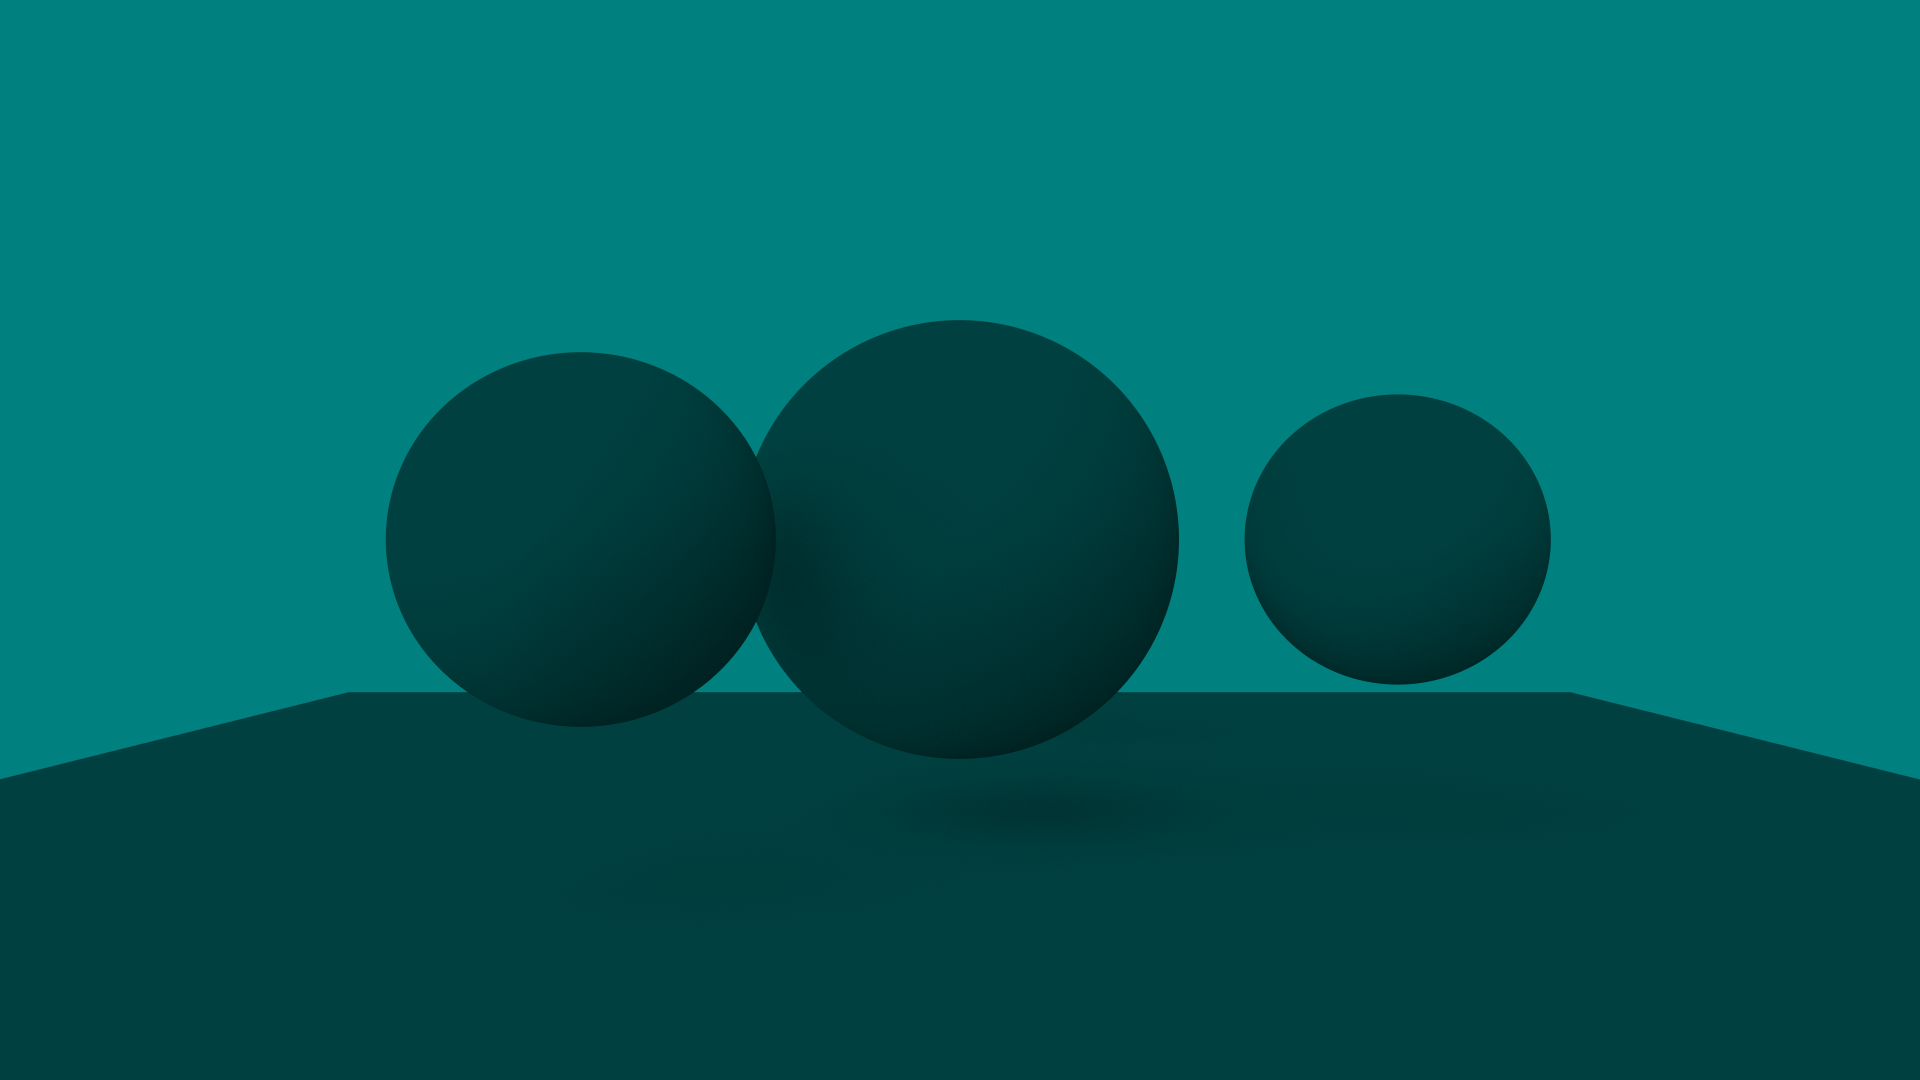
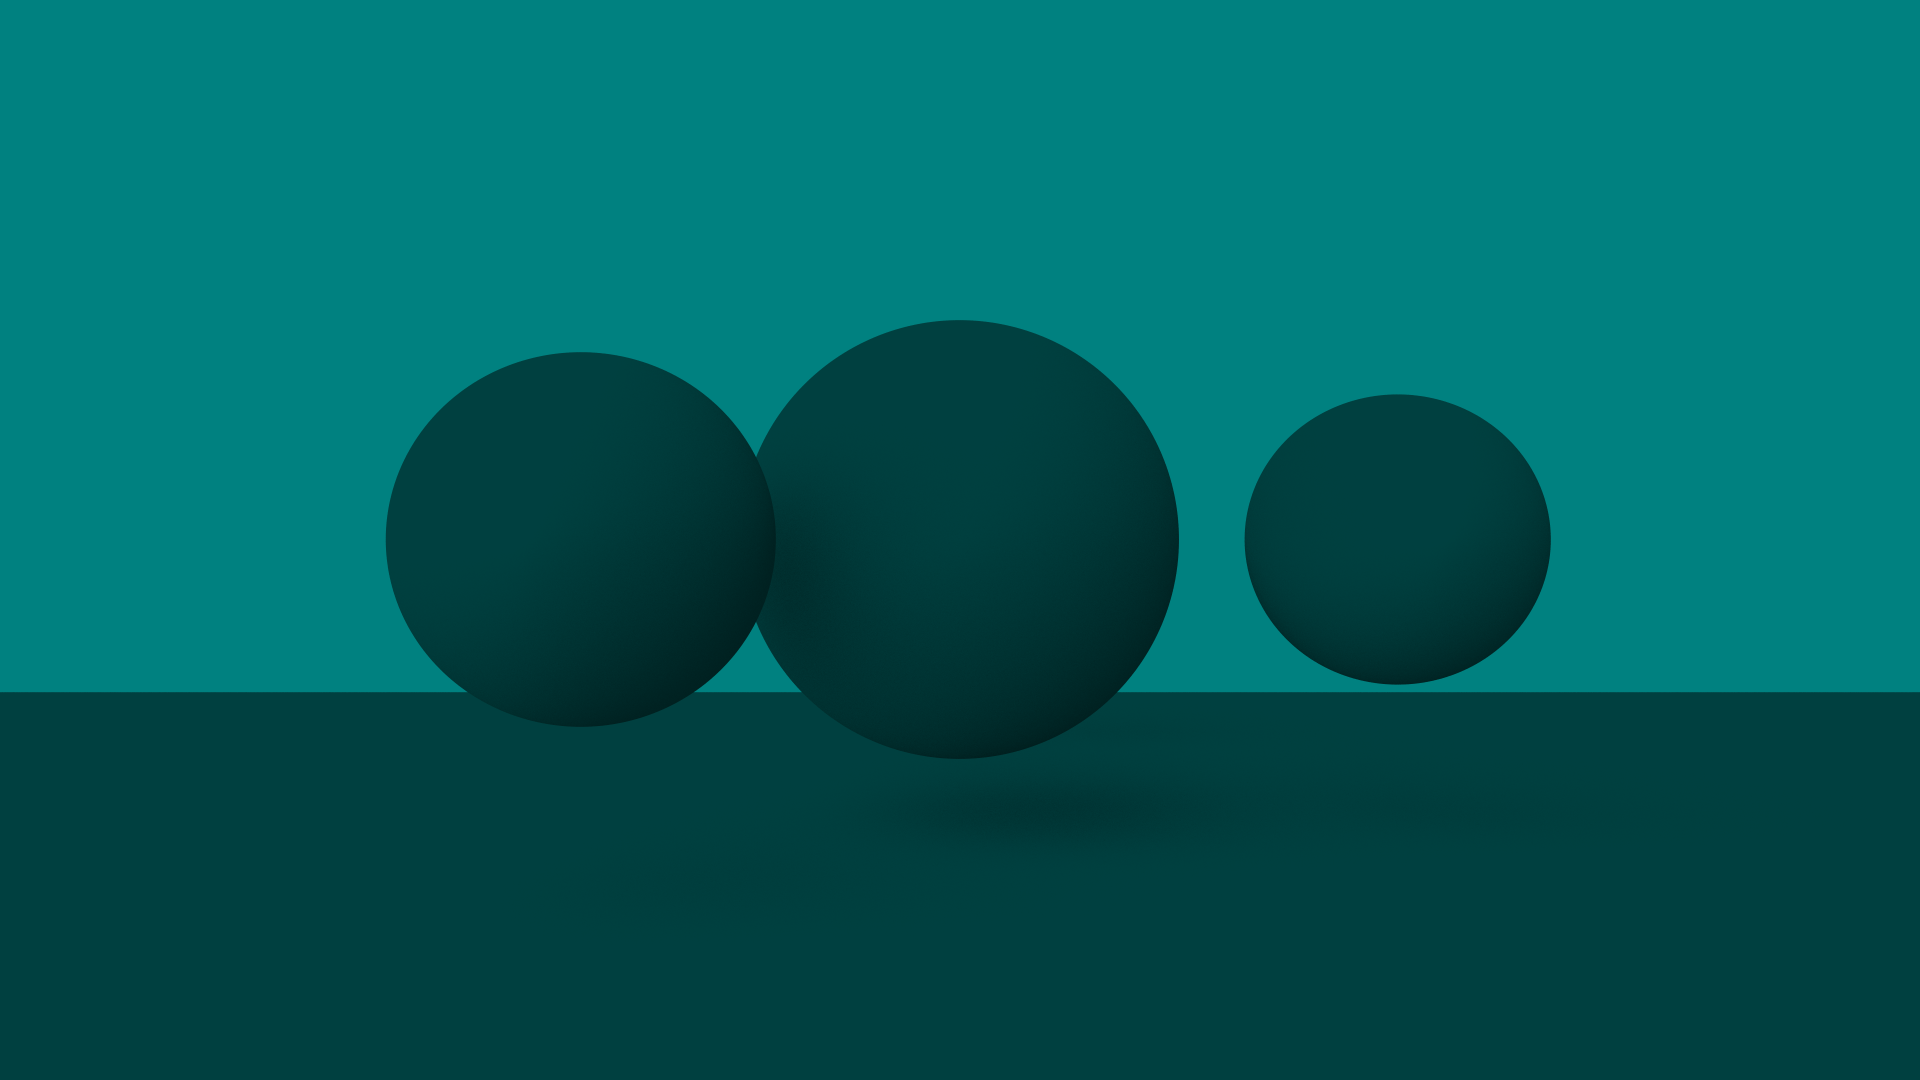
created new rendering

Changed region(s): [[0.8125, 0.6417, 1.0, 0.7333], [0.0, 0.6417, 0.1875, 0.7333]]

diff --git a/main.c b/main.c
@@ -98,7 +98,7 @@ int main(int argc, char **argv)
     };
 
     vec3 pos = {0, 1, -3};
-    vec3 size = {4, 2, 4};
+    vec3 size = {8, 2, 4};
 
     mesh_t mesh = {
         .num_triangles = 2,
